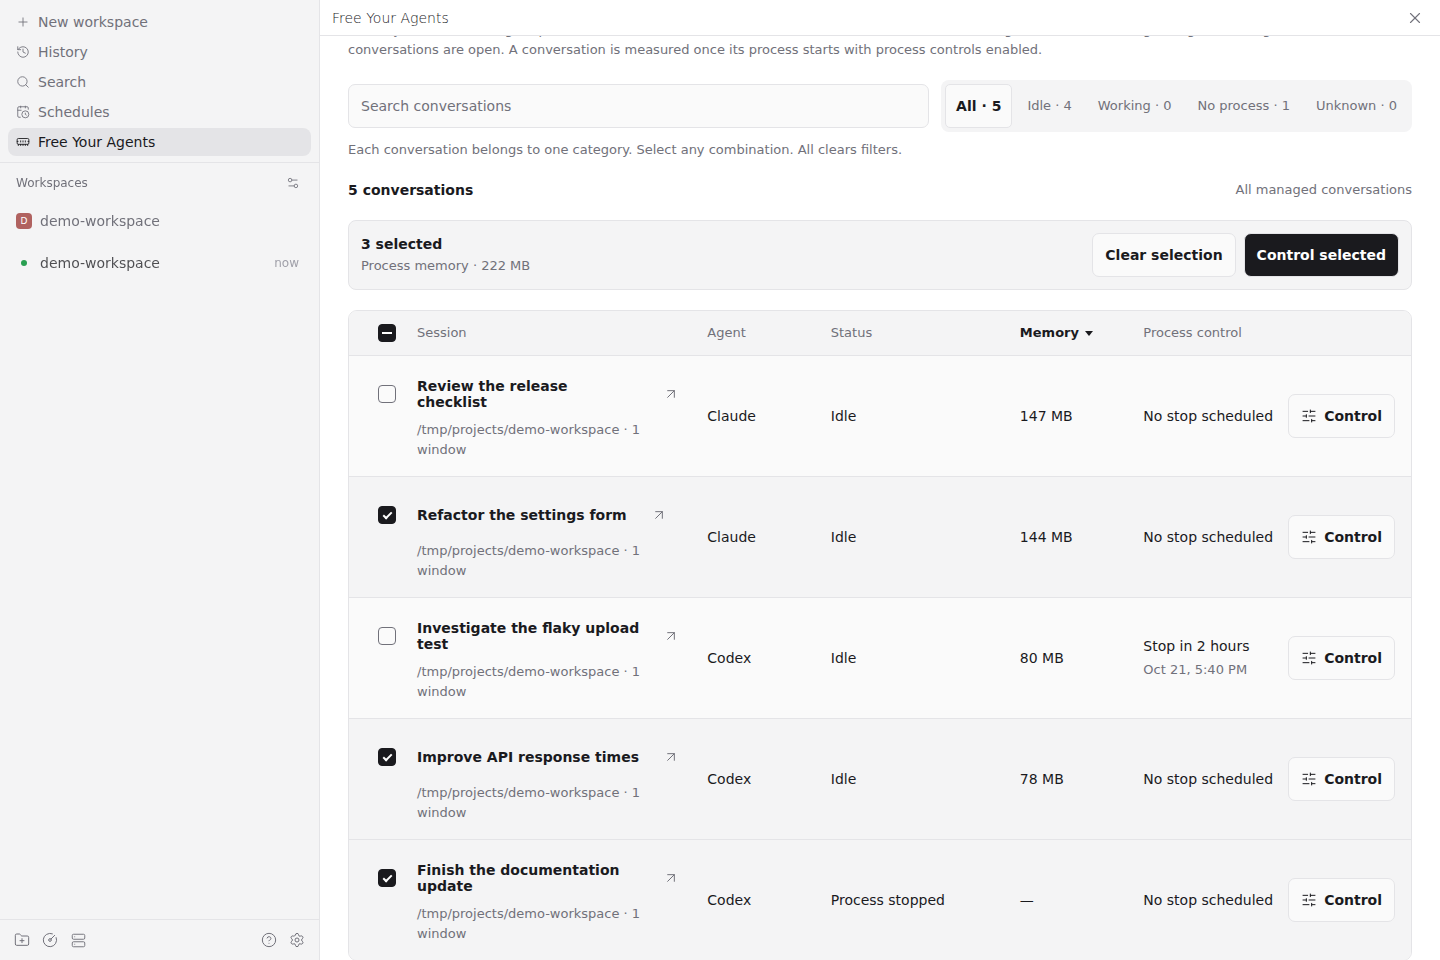
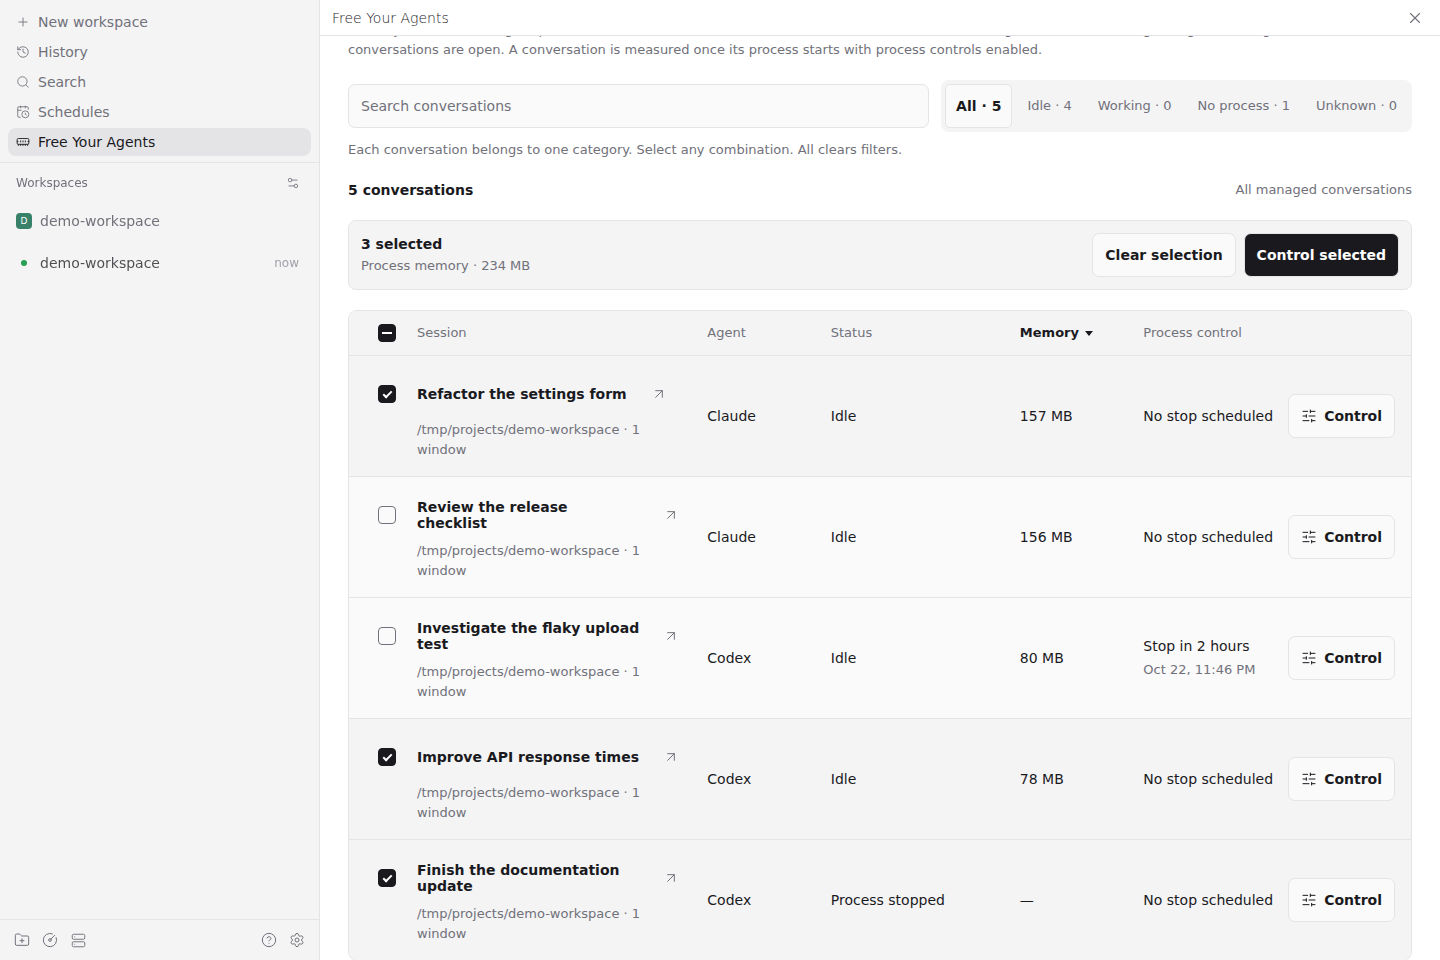
docs: refresh v1.1.1 listing screenshots

diff --git a/assets/README.md b/assets/README.md
@@ -1,11 +1,11 @@
 # Screenshot provenance
 
-Captured on October 21, 2026 from the real Paseo 0.12.0 bundled web app and the Free Your Agents v1.1.0 candidate, with Codex 0.163.0 and Claude 2.1.301, using Chromium through Playwright at a 1440 × 960 desktop viewport.
+Captured on October 22, 2026 from the real Paseo 0.12.0 bundled web app and the Free Your Agents v1.1.1 candidate, with Codex 0.163.0 and Claude 2.1.301, using Chromium through Playwright at a 1440 × 960 desktop viewport.
 
 - `free-your-agents.png` shows the screen opened from the sidebar, with process control on for Codex and Claude by default and five open demo conversations (three Codex, two Claude).
-- `conversations.png` shows the same list scrolled down and sorted by memory, highest first: four idle processes, one stopped process, and a stop scheduled two hours ahead.
+- `conversations.png` shows the same list scrolled down and sorted by memory, highest first: provider logos with status badges, four idle processes, one stopped process, and a stop scheduled two hours ahead.
 - `stop-menu.png` shows the process control dialog opened with an idle conversation's Control button.
-- `bulk-selection.png` shows three selected conversations and their combined process memory, including one conversation whose process is already stopped.
+- `bulk-selection.png` shows three selected conversations and their combined process memory, including one conversation whose process is already stopped. Checkboxes replace the logos in the same position, keeping titles aligned with the unselected list.
 - `bulk-control.png` shows the bulk controls for that selection, including eligible counts for each action.
 - `bulk-results.png` shows two accepted stop requests and one skipped conversation with no process to stop. Both selected native processes were confirmed stopped through the plugin's inventory before capture.
 
